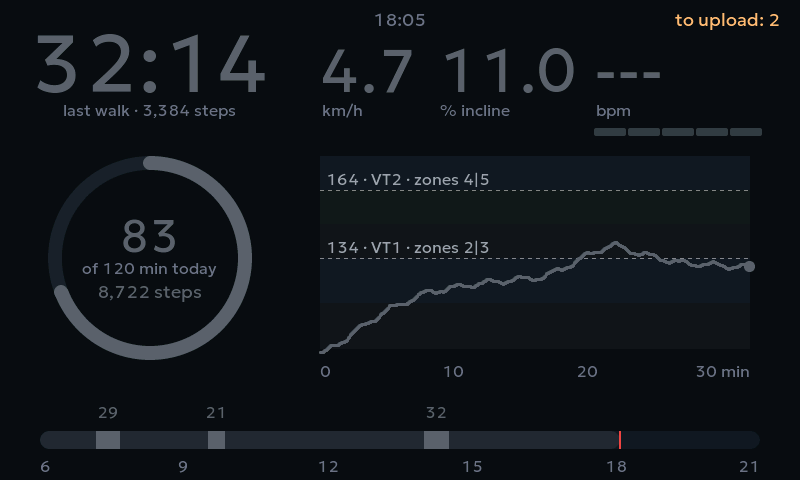
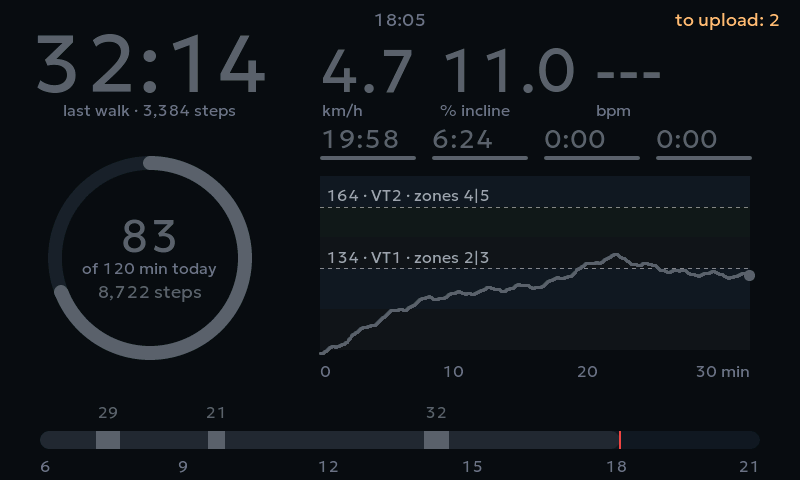
feat: show this walk's time in pulse zones 2 to 5 on the dashboard
The five-segment zone scale under the pulse becomes a row as wide as the
chart: the current walk's time in zones 2 to 5 (m:ss, as the walk timer),
each in its zone's color with a line under it, as on the statistics page.
The current zone is bright with the marker on its line, placed by how far
into the zone the pulse is; the other zones are dim. Between walks the row
shows the last kept walk. The pulse chart moves down 20 px to make room.

One look, one meaning: gray is "no signal" only. The times count with the
treadmill and the strap both on, so they go gray without either; the lines
and the marker follow the strap alone. A zone not reached shows only as
0:00, in its dim color. The statistics page follows the same rule: a zone
without minutes is dim, no longer gray.

Demo scenes count the zones of their made-up walks; README screenshots
re-rendered with the example settings.

Changed region(s): [[0.4062, 0.5, 0.9688, 0.75], [0.4062, 0.25, 0.6562, 0.4375], [0.6562, 0.25, 0.9688, 0.3438]]

diff --git a/lib/screen/screen.cpp b/lib/screen/screen.cpp
@@ -69,14 +69,24 @@ constexpr int32_t kRingOuter = 102, kRingWidth = 14;  // room for "of 120 min to
 // Inside the ring: today's minutes, the goal under them, today's steps last.
 constexpr int32_t kTodayBaseline = 252, kTodayCaptionBaseline = 274, kTodayStepsBaseline = 298;
 
-// Zone scale under the pulse
-constexpr int32_t kScaleY = 128, kSegW = 32, kSegGap = 2, kSegH = 8;
-constexpr int32_t kScaleW = pulse::kZoneCount * kSegW + (pulse::kZoneCount - 1) * kSegGap;
+// The walk's time in zones 2 to 5, a row under the top numbers as wide as the
+// chart below: each time in its zone's color with a line under it, as on the
+// statistics page. The current zone is bright, the others dim, with the marker
+// on the current zone's line placed by how far into the zone the pulse is.
+constexpr int32_t kZoneTimesX = 320, kZoneTimeColW = 112, kZoneTimeLineW = 96;
+constexpr int32_t kZoneTimesBaseline = 148, kZoneTimeLineY = 156, kZoneTimeLineH = 4;
+constexpr int32_t kZoneMarkerW = 4, kZoneMarkerH = 14;
+
+// A zone's color dimmed, on both pages: "not the zone the pulse is in now" on
+// the dashboard, "no minutes" on the statistics page. Gray stays "no signal".
+// The numbers are dimmed less than the lines, so they stay readable.
+constexpr lv_opa_t kDimLineOpa = LV_OPA_40;
+constexpr int kDimTextPct = 60;
 
 // Pulse chart of the walk
-constexpr int32_t kChartX = 320, kChartTop = 150, kChartBottom = 366;
+constexpr int32_t kChartX = 320, kChartTop = 170, kChartBottom = 366;
 constexpr int32_t kChartPad = 6;  // room for round line caps at the edges
-constexpr int32_t kPulseTop = 156, kPulseBottom = 360;
+constexpr int32_t kPulseTop = 176, kPulseBottom = 360;
 constexpr float kPulseLo = 90.0f, kPulseHi = 180.0f;  // bpm at the bottom and top (HRmax 181)
 // Just under the lowest the pulse line goes (kPulseBottom), so the minutes
 // read as the chart's and not the day strip's.
@@ -129,6 +139,16 @@ int32_t stripX(int sec, int startSec, int endSec) {
 // ---------------------------------------------------------------- helpers
 
 lv_color_t rgb(uint32_t c) { return lv_color_hex(c); }
+
+// A color `kDimTextPct` % of the way from the background to `c`.
+uint32_t dimmed(uint32_t c) {
+    uint32_t out = 0;
+    for (int shift : {16, 8, 0}) {
+        const int from = (kBg >> shift) & 0xff, to = (c >> shift) & 0xff;
+        out |= static_cast<uint32_t>(from + (to - from) * kDimTextPct / 100) << shift;
+    }
+    return out;
+}
 
 enum class Align { Left, Center, Right };
 
@@ -507,15 +527,16 @@ void Dashboard::buildNumbers() {
     pulseCaption_ = makeLabel(dash_, &geo_16, kMuted, Align::Left, kPulseX + 2, kCaptionBaseline,
                               kWidth - kPulseX - 4);
 
-    for (int i = 0; i < pulse::kZoneCount; ++i) {
-        lv_obj_t* seg = makeBox(dash_);
-        lv_obj_set_pos(seg, kPulseX + i * (kSegW + kSegGap), kScaleY);
-        lv_obj_set_size(seg, kSegW, kSegH);
-        lv_obj_set_style_radius(seg, 2, 0);
-        zoneSegments_[i] = seg;
+    for (int i = 0; i < 4; ++i) {
+        const int32_t x = kZoneTimesX + i * kZoneTimeColW;
+        zoneTimes_[i] = makeLabel(dash_, &geo_26, kOffDim, Align::Left, x, kZoneTimesBaseline, kZoneTimeColW);
+        zoneTimeLines_[i] = makeBox(dash_);
+        lv_obj_set_pos(zoneTimeLines_[i], x, kZoneTimeLineY);
+        lv_obj_set_size(zoneTimeLines_[i], kZoneTimeLineW, kZoneTimeLineH);
+        lv_obj_set_style_radius(zoneTimeLines_[i], kZoneTimeLineH / 2, 0);
     }
     zoneMarker_ = makeBox(dash_);
-    lv_obj_set_size(zoneMarker_, 4, kSegH + 10);
+    lv_obj_set_size(zoneMarker_, kZoneMarkerW, kZoneMarkerH);
     lv_obj_set_style_radius(zoneMarker_, 2, 0);
     lv_obj_set_style_bg_color(zoneMarker_, rgb(kWhite), 0);
     lv_obj_set_style_bg_opa(zoneMarker_, LV_OPA_COVER, 0);
@@ -825,12 +846,11 @@ void Dashboard::updateNumbers(const Model& m) {
     setText(incline_, oneDecimal(m.inclinePct));
     setTextColor(incline_, up ? kIncline : kOff);
 
+    updateZoneTimes(m);
     if (!m.pulseUp || m.bpm <= 0) {
         setText(pulse_, "---");
         setTextColor(pulse_, kOff);
         setText(pulseCaption_, "bpm");
-        for (lv_obj_t* seg : zoneSegments_) setBg(seg, kOff, LV_OPA_60);
-        setVisible(zoneMarker_, false);
         return;
     }
 
@@ -844,13 +864,43 @@ void Dashboard::updateNumbers(const Model& m) {
     snprintf(caption, sizeof(caption), "bpm · %d %s threshold", h.distance,
              h.kind == pulse::Hint::Kind::AboveInterval ? "above" : "below");
     setText(pulseCaption_, caption);
+}
 
-    for (int i = 0; i < pulse::kZoneCount; ++i) {
-        setBg(zoneSegments_[i], kZoneColor[i + 1], i + 1 == zone ? LV_OPA_COVER : LV_OPA_50);
+// The walk's time in zones 2 to 5 (zone 1 left out: easy walking says little).
+// One look, one meaning: gray is "no signal", dim is "not the zone the pulse is
+// in now", and a zone not reached shows only as 0:00. The times count with the
+// treadmill and the strap both on, so they are gray without either; the lines
+// and the marker show the pulse and go gray only without the strap. In zone 1
+// every zone is dim and there is no marker.
+void Dashboard::updateZoneTimes(const Model& m) {
+    const bool pulseUp = m.pulseUp && m.bpm > 0;
+    const bool counting = pulseUp && m.treadmillUp;
+    const float bpm = static_cast<float>(m.bpm);
+    const int zone = pulseUp ? pulse::zoneOf(s_.zones, bpm) : 0;
+
+    for (int i = 0; i < 4; ++i) {
+        const int z = i + 2;
+        const bool now = z == zone;
+        setText(zoneTimes_[i], walkClock(m.walkZoneSeconds[z]));
+        setTextColor(zoneTimes_[i], !counting ? kOff : now ? kZoneColor[z] : dimmed(kZoneColor[z]));
+        if (!pulseUp) {
+            setBg(zoneTimeLines_[i], kOff, LV_OPA_COVER);
+        } else {
+            setBg(zoneTimeLines_[i], kZoneColor[z], now ? LV_OPA_COVER : kDimLineOpa);
+        }
     }
-    const float pos = pulse::scalePosition(s_.zones, static_cast<float>(m.bpm));
-    lv_obj_set_pos(zoneMarker_, kPulseX + static_cast<int32_t>(std::lround(pos * kScaleW)) - 2,
-                   kScaleY - 5);
+
+    if (zone < 2) {
+        setVisible(zoneMarker_, false);
+        return;
+    }
+    // How far into its zone the pulse is, 0..1, from its place on a scale of
+    // five equal zones.
+    const float into = std::min(
+        1.0f, std::max(0.0f, pulse::scalePosition(s_.zones, bpm) * pulse::kZoneCount - (zone - 1)));
+    const int32_t x = kZoneTimesX + (zone - 2) * kZoneTimeColW +
+                      static_cast<int32_t>(std::lround(into * kZoneTimeLineW)) - kZoneMarkerW / 2;
+    lv_obj_set_pos(zoneMarker_, x, kZoneTimeLineY + kZoneTimeLineH / 2 - kZoneMarkerH / 2);
     setVisible(zoneMarker_, true);
 }
 
@@ -1148,19 +1198,20 @@ void Dashboard::layoutStats() {
 
     // Minutes a day in zones 2..5 on average, over the same days as the average
     // day, so they compare with it; in their colors, a zone under half a
-    // minute a day in gray.
+    // minute a day dim (as the zones the pulse is not in on the dashboard: gray
+    // means "no signal" there).
     for (int i = 0; i < 4; ++i) {
         const int z = i + 2;
         const uint32_t minutes = minutesADay(w.zoneSeconds[z], w.fullDays);
         const bool any = minutes > 0;
         const std::string number = std::to_string(minutes);
         setText(zoneMinutes_[i], number);
-        setTextColor(zoneMinutes_[i], any ? kZoneColor[z] : kOffDim);
+        setTextColor(zoneMinutes_[i], any ? kZoneColor[z] : dimmed(kZoneColor[z]));
         place(zoneUnits_[i], Align::Left, kZonesX + i * kZoneColW + textWidth(number.c_str(), &geo_26) + 4,
               kZoneMinutesBaseline, kZoneColW);
-        setTextColor(zoneUnits_[i], any ? kMuted : kOffDim);
-        setBg(zoneLines_[i], any ? kZoneColor[z] : kOffDim, LV_OPA_COVER);
-        setTextColor(zoneNames_[i], any ? kLineLabel : kOffDim);
+        setTextColor(zoneUnits_[i], kMuted);
+        setBg(zoneLines_[i], kZoneColor[z], any ? LV_OPA_COVER : kDimLineOpa);
+        setTextColor(zoneNames_[i], kLineLabel);
     }
 
     uint32_t longest = 0;

diff --git a/lib/screen/screen.h b/lib/screen/screen.h
@@ -1,8 +1,9 @@
 // The 800x480 dashboard, drawn with LVGL: the current walk's timer and steps
 // above today's ring toward the daily goal (with today's steps inside), speed,
-// incline, the pulse with its zone scale and its chart over the walk, and the
-// day strip; plus a plain message screen for boot and uploads. A tap on the
-// ring switches today's count between minutes and hours and minutes.
+// incline, the pulse, the walk's time in pulse zones 2 to 5 (the current zone
+// marked), the pulse chart over the walk, and the day strip; plus a plain
+// message screen for boot and uploads. A tap on the ring switches today's count
+// between minutes and hours and minutes.
 //
 // A second page, reached by a sideways swipe, shows the last two weeks: each
 // day's walking split by pulse zone, and totals over them. The dashboard comes
@@ -15,6 +16,7 @@
 
 #include <lvgl.h>
 
+#include <array>
 #include <cstdint>
 #include <functional>
 #include <string>
@@ -58,6 +60,9 @@ struct Model {
     float inclinePct = 0.0f;
     uint32_t walkSeconds = 0;  // the current walk, or the last one
     uint32_t walkSteps = 0;    // of the same walk
+    // The same walk's seconds by heart rate zone: [0] below zone 1, [1..5] the
+    // zones. Counted only with the treadmill and the strap both on.
+    std::array<uint32_t, pulse::kZoneCount + 1> walkZoneSeconds{};
     bool walking = false;      // a walk is on; otherwise the walk shown is the last one
     bool beltMoving = false;   // the belt moves: the dashboard comes back from the statistics
 
@@ -137,6 +142,7 @@ class Dashboard {
     void drawToday();
     void placeTodayHours(uint32_t minutes, uint32_t digitColor, uint32_t unitColor);
     void updateNumbers(const Model& m);
+    void updateZoneTimes(const Model& m);
     void updateChart(const Model& m);
     void updateAxis(uint32_t spanS);
     void updateLevel(const std::vector<float>& bpm, int end, float secondsPerColumn, bool pulseUp);
@@ -181,7 +187,10 @@ class Dashboard {
     lv_obj_t* incline_ = nullptr;
     lv_obj_t* pulse_ = nullptr;
     lv_obj_t* pulseCaption_ = nullptr;
-    lv_obj_t* zoneSegments_[pulse::kZoneCount] = {};
+    // The walk's time in zones 2..5, a line in the zone's color under each; the
+    // marker on the current zone's line
+    lv_obj_t* zoneTimes_[4] = {};
+    lv_obj_t* zoneTimeLines_[4] = {};
     lv_obj_t* zoneMarker_ = nullptr;
 
     lv_obj_t* chart_ = nullptr;

diff --git a/lib/screen/screen_demo.cpp b/lib/screen/screen_demo.cpp
@@ -13,9 +13,12 @@ struct Key {
 };
 
 // A walk at 3.5 -> 4.5 -> 4.7 km/h and 3 -> 8 -> 11 % incline, the pulse
-// following `keys` with a little natural wobble.
-walk::History makeWalk(uint32_t seconds, const std::vector<Key>& keys) {
+// following `keys` with a little natural wobble; its seconds by pulse zone go
+// to `zoneSeconds`.
+walk::History makeWalk(uint32_t seconds, const std::vector<Key>& keys, const pulse::Borders& zones,
+                       std::array<uint32_t, pulse::kZoneCount + 1>& zoneSeconds) {
     walk::History h;
+    zoneSeconds = {};
     for (uint32_t s = 0; s < seconds; ++s) {
         const float min = s / 60.0f;
         float bpm = keys.back().bpm;
@@ -30,6 +33,7 @@ walk::History makeWalk(uint32_t seconds, const std::vector<Key>& keys) {
         const float speed = min < 3 ? 3.5f : min < 10 ? 4.5f : 4.7f;
         const float incline = min < 5 ? 3.0f : min < 17 ? 8.0f : 11.0f;
         h.push(static_cast<uint16_t>(std::lround(bpm)), speed, incline);
+        ++zoneSeconds[pulse::zoneOf(zones, std::round(bpm))];
     }
     return h;
 }
@@ -72,7 +76,7 @@ const char* sceneName(int i) {
     return i >= 0 && i < kSceneCount ? kNames[i] : "?";
 }
 
-Model scene(int i, uint32_t goalSeconds) {
+Model scene(int i, uint32_t goalSeconds, const pulse::Borders& zones) {
     Model m;
     m.goalSeconds = goalSeconds;
     m.clock = "14:32";
@@ -147,7 +151,7 @@ Model scene(int i, uint32_t goalSeconds) {
             break;
     }
 
-    const walk::History h = makeWalk(seconds, keys);
+    const walk::History h = makeWalk(seconds, keys, zones, m.walkZoneSeconds);
     m.walkSeconds = h.seconds();
     m.walkSteps = stepsOver(m.walkSeconds);
     m.columns = h.columns(kChartColumns, kChartMinSpanS);

diff --git a/src/main.cpp b/src/main.cpp
@@ -92,6 +92,7 @@ screen::NetProblem netProblem = screen::NetProblem::None;
 uint32_t lastStopCount = 0;  // the treadmill's stop reports already passed on
 uint32_t keptWalkSeconds = 0;  // the last kept walk's time, shown between walks
 uint32_t keptWalkSteps = 0;
+std::array<uint32_t, pulse::kZoneCount + 1> keptWalkZones{};  // and its seconds by pulse zone
 // Kept walks that ended before the clock was set, waiting for a date.
 std::vector<walk::Summary> undatedHistory;
 // The history's last weeks for the statistics page, and when it began.
@@ -356,6 +357,7 @@ void tick(uint32_t now) {
             dayLog.prune(epoch);
             keptWalkSeconds = sum.walkSeconds();
             keptWalkSteps = sum.steps;
+            keptWalkZones = sum.zoneSeconds;
             netNow = true;
             netDueMs = now + kNetAfterWalkMs;
         } else {
@@ -388,6 +390,7 @@ void tick(uint32_t now) {
     m.inclinePct = sample.inclinePct;
     m.walkSeconds = tracker.inSession() ? tracker.walkSeconds() : keptWalkSeconds;
     m.walkSteps = tracker.inSession() ? tracker.steps() : keptWalkSteps;
+    m.walkZoneSeconds = tracker.inSession() ? tracker.zoneSeconds() : keptWalkZones;
     m.walking = tracker.inSession();
     m.pulseUp = heartRateUp;
     m.bpm = hr.bpm;

diff --git a/src/sim/sim_main.cpp b/src/sim/sim_main.cpp
@@ -97,7 +97,7 @@ int main(int argc, char** argv) {
     for (const bool inHours : {false, true}) {
         dash.setTodayInHours(inHours);
         for (int i = 0; i < screen::demo::kSceneCount; ++i) {
-            dash.update(screen::demo::scene(i, dailyGoalSeconds()));
+            dash.update(screen::demo::scene(i, dailyGoalSeconds(), screenSettings().zones));
             lv_refr_now(disp);
             const std::string name = std::to_string(i) + "_" + screen::demo::sceneName(i) +
                                      (inHours ? "_hours" : "") + ".bmp";
@@ -107,7 +107,7 @@ int main(int argc, char** argv) {
     // The statistics page, as after a swipe.
     dash.setTodayInHours(false);
     for (int i = 0; i < screen::demo::kStatsSceneCount; ++i) {
-        screen::Model m = screen::demo::scene(0, dailyGoalSeconds());
+        screen::Model m = screen::demo::scene(0, dailyGoalSeconds(), screenSettings().zones);
         m.walking = false;
         m.hasStats = true;
         m.stats = screen::demo::statsScene(i, dailyGoalSeconds());

diff --git a/lib/screen/screen_demo.h b/lib/screen/screen_demo.h
@@ -12,8 +12,9 @@ constexpr int kSceneCount = 9;
 // Short file-friendly name of a scene, e.g. "walk".
 const char* sceneName(int i);
 
-// Scene `i` (0..kSceneCount-1) for a daily goal of `goalSeconds`.
-Model scene(int i, uint32_t goalSeconds);
+// Scene `i` (0..kSceneCount-1) for a daily goal of `goalSeconds`, the walk's
+// time in pulse zones counted by `zones`.
+Model scene(int i, uint32_t goalSeconds, const pulse::Borders& zones);
 
 // The statistics page on 2026-11-12, local days as the process time zone has
 // them: 0 = the history began yesterday (two days of walks), 1 = two full

diff --git a/src/demo_main.cpp b/src/demo_main.cpp
@@ -36,7 +36,7 @@ void loop() {
         nextMs = millis() + kSceneMs;
         if (scene < screen::demo::kSceneCount) {
             const uint32_t start = millis();
-            dash->update(screen::demo::scene(scene, dailyGoalSeconds()));
+            dash->update(screen::demo::scene(scene, dailyGoalSeconds(), screenSettings().zones));
             display::refreshNow();
             Serial.printf("[demo] %d %s, drawn in %lu ms\n", scene, screen::demo::sceneName(scene),
                           static_cast<unsigned long>(millis() - start));

diff --git a/README.md b/README.md
@@ -12,7 +12,7 @@ A big, glanceable second screen for your treadmill: walking time, a daily goal r
 
 - **This walk, in big digits.** Walking time runs only while the belt moves, with the steps under it ([estimated from the speed](docs/how-it-works.md#steps)). Speed and incline next to it.
 - **Daily goal ring.** Minutes walked today out of your goal, and today's steps. Past the goal, a second, brighter lap. Tap the ring to count in hours and minutes ("1h 23m") instead.
-- **Heart rate zones.** The pulse is colored by zone, with a five-zone scale and how far you are from the next threshold.
+- **Heart rate zones.** The pulse is colored by zone, with how far you are from the next threshold. Under it, this walk's time in zones 2 to 5, the current zone marked.
 - **Pulse chart of the walk** with your two thresholds and where your pulse sat over the last 5 minutes.
 - **Beeps** when the pulse crosses a threshold, and when the treadmill link drops mid-walk.
 - **Day strip:** when you walked today, with each walk's minutes over it.
